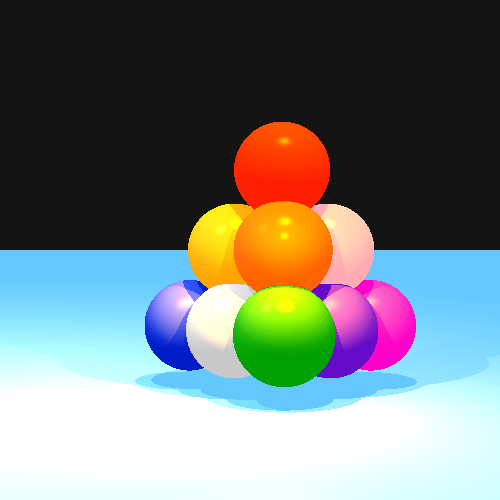
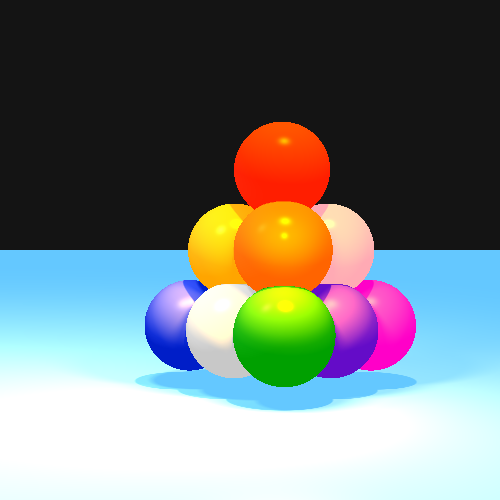
///

diff --git a/src/geometries/Squared3D.java b/src/geometries/Squared3D.java
@@ -1,0 +1,73 @@
+package geometries;
+
+import primitives.Color;
+
+import java.util.List;
+import primitives.*;
+
+public class Squared3D {
+
+    List<Polygon> geometryList;
+
+    /**
+     * Constructs a Squared3D object with the specified parameters.
+     *
+     * @param position The position of the Squared3D.
+     * @param depth    The depth of the Squared3D.
+     * @param width    The width of the Squared3D.
+     * @param height   The height of the Squared3D.
+     * @param color    The color of the Squared3D.
+     */
+    public Squared3D(Point position, int depth, int width, int height, Color color,double kd,double ks,int shines) {
+
+        // Initialize the walls
+
+        // Front wall
+        Polygon front = (Polygon) new Polygon(position,
+                new Point(position.getXyz().getD1() + width, position.getXyz().getD2(), position.getXyz().getD3()),
+                new Point(position.getXyz().getD1() + width, position.getXyz().getD1(), position.getXyz().getD3()+ height),
+                new Point(position.getXyz().getD1(), position.getXyz().getD1(), position.getXyz().getD3() + height))
+                .setEmission(color).setMaterial(new Material().setKd(kd).setKs(ks).setShininess(shines));
+
+        // Back wall
+        Polygon back = (Polygon) new Polygon(new Point(position.getXyz().getD1(), position.getXyz().getD1() + depth, position.getXyz().getD3()),
+                new Point(position.getXyz().getD1() + width, position.getXyz().getD1() + depth, position.getXyz().getD3()),
+                new Point(position.getXyz().getD1() + width, position.getXyz().getD2() + depth, position.getXyz().getD3() + height),
+                new Point(position.getXyz().getD1(), position.getXyz().getD2() + depth, position.getXyz().getD3() + height))
+                .setEmission(color).setMaterial(new Material().setKd(kd).setKs(ks).setShininess(shines));
+
+        // Left wall
+        Polygon left = (Polygon) new Polygon(position,
+                new Point(position.getXyz().getD1(), position.getXyz().getD2(), position.getXyz().getD3() + height),
+                new Point(position.getXyz().getD1(), position.getXyz().getD2() + depth, position.getXyz().getD3() + height),
+                new Point(position.getXyz().getD1(), position.getXyz().getD2() + depth, position.getXyz().getD3()))
+                .setEmission(color).setMaterial(new Material().setKd(kd).setKs(ks).setShininess(shines));
+
+        // Right wall
+        Polygon right = (Polygon) new Polygon(new Point(position.getXyz().getD1() + width, position.getXyz().getD2(), position.getXyz().getD3()),
+                new Point(position.getXyz().getD1() + width, position.getXyz().getD2(), position.getXyz().getD3() + height),
+                new Point(position.getXyz().getD1() + width, position.getXyz().getD2() + depth, position.getXyz().getD3() + height),
+                new Point(position.getXyz().getD1() + width, position.getXyz().getD2() + depth, position.getXyz().getD3()))
+                .setEmission(color).setMaterial(new Material().setKd(kd).setKs(ks).setShininess(shines));
+
+        // Bottom wall
+        Polygon down = (Polygon) new Polygon(new Point(position.getXyz().getD1(), position.getXyz().getD2(), position.getXyz().getD3()),
+                new Point(position.getXyz().getD1() + width, position.getXyz().getD2(), position.getXyz().getD3()),
+                new Point(position.getXyz().getD1() + width, position.getXyz().getD2() + depth, position.getXyz().getD3()),
+                new Point(position.getXyz().getD1(), position.getXyz().getD2() + depth, position.getXyz().getD3()))
+                .setEmission(color).setMaterial(new Material().setKd(kd).setKs(ks).setShininess(shines));
+
+        // Top wall
+        Polygon up = (Polygon) new Polygon(new Point(position.getXyz().getD1(), position.getXyz().getD2(), position.getXyz().getD3() + height),
+                new Point(position.getXyz().getD1() + width, position.getXyz().getD2(), position.getXyz().getD3() + height),
+                new Point(position.getXyz().getD1() + width, position.getXyz().getD2() + depth, position.getXyz().getD3() + height),
+                new Point(position.getXyz().getD1(), position.getXyz().getD2() + depth, position.getXyz().getD3() + height))
+                .setEmission(color).setMaterial(new Material().setKd(kd).setKs(ks).setShininess(shines));
+
+        geometryList = List.of(front, back, left, right, down, up);
+    }
+
+    public List<Polygon> getGeometryList() {
+        return geometryList;
+    }
+}

diff --git a/src/geometries/Table.java b/src/geometries/Table.java
@@ -1,0 +1,69 @@
+package geometries;
+
+import primitives.Color;
+import primitives.Point;
+
+import java.util.LinkedList;
+import java.util.List;
+
+/**
+ * Represents a table composed of multiple Squared3D objects.
+ */
+public class Table {
+
+    protected LinkedList<Squared3D> squared3DList;
+
+    /**
+     * Constructs a Table object with the specified parameters.
+     *
+     * @param position    The position of the table.
+     * @param depth       The depth of the table.
+     * @param width       The width of the table.
+     * @param height      The height of the table.
+     * @param color       The color of the table.
+     * @param spaceWidth  The space width of the table.
+     * @param spaceDepth  The space depth of the table.
+     */
+    public Table(Point position, int depth, int width, int height, Color color, int spaceWidth, int spaceDepth,double kd,double ks,int shines) {
+        Squared3D s1 = new Squared3D(position, depth, width, height, color,kd,ks ,shines);
+        Squared3D s2 = new Squared3D(new Point(position.getXyz().getD1() + spaceWidth, position.getXyz().getD2(), position.getXyz().getD3()), depth, width, height, color,kd,ks ,shines);
+        Squared3D s3 = new Squared3D(new Point(position.getXyz().getD1(), position.getXyz().getD2() + spaceDepth, position.getXyz().getD3()), depth, width, height, color,kd,ks ,shines);
+        Squared3D s4 = new Squared3D(new Point(position.getXyz().getD1() + spaceWidth, position.getXyz().getD2() + spaceDepth, position.getXyz().getD3()), depth, width, height, color,kd,ks ,shines);
+        Squared3D s5 = new Squared3D(new Point(position.getXyz().getD1(), position.getXyz().getD2(), position.getXyz().getD3() + height), spaceDepth + depth, spaceWidth + width, width, color,kd,ks ,shines);
+        squared3DList = new LinkedList<>();
+        squared3DList.add(s1);
+        squared3DList.add(s2);
+        squared3DList.add(s3);
+        squared3DList.add(s4);
+        squared3DList.add(s5);
+    }
+
+    /**
+     * Returns the list of Squared3D objects that form the table.
+     *
+     * @return The list of Squared3D objects.
+     */
+    public List<Squared3D> getSquared3DList() {
+        return squared3DList;
+    }
+
+    /**
+     * Adds a Squared3D object to the table.
+     *
+     * @param squared3D The Squared3D object to add.
+     */
+    public void addSquared3DList(Squared3D squared3D) {
+        squared3DList.add(squared3D);
+    }
+
+    /**
+     * Returns the list of Squared3D objects that form the table.
+     *
+     * @return The list of Squared3D objects.
+     * @deprecated Use {@link #getSquared3DList()} instead.
+     */
+    @Deprecated
+    public LinkedList<Squared3D> getsquared3DList() {
+        return squared3DList;
+    }
+}

diff --git a/unitTests/renderer/Minip1.java b/unitTests/renderer/Minip1.java
@@ -55,11 +55,11 @@ public class Minip1 {
         scene.lights.add(new SpotLight(new Color(400, 240, 0),new Point(100,1000,500),new Vector(-30,-30,0),20).setKl(1E-5).setKq(1.5E-7));
 
         scene.lights.add(
-                new SpotLight(new Color(400, 240, 0),new Point(40,50,200),new Vector(0,-1,0),20)
+                new SpotLight(new Color(400, 240, 0),new Point(40,50,200),new Vector(0,-1,0),40)
                 .setKl(1E-5).setKq(1.5E-7));
 
         scene.lights.add(
-                new SpotLight(new Color(200, 200, 200),new Point(-150,200,200),new Vector(-40,-40,-20),13)
+                new SpotLight(new Color(200, 200, 200),new Point(-150,200,200),new Vector(-40,-40,-20),30)
                         .setKl(1E-5).setKq(1.5E-7));
 
         // Updated Camera setup
@@ -68,6 +68,9 @@ public class Minip1 {
                 .setDirection(new Vector(0, 1, 0).normalize(), new Vector(0, 0, -1))  // Pointing towards the scene with correct up vector
                 .setVpDistance(300)  // Adjusted to capture a larger view
                 .setVpSize(200, 200);  // Increased size for a broader view
+
+
+        scene.setSoftShadow(true);
 
         ImageWriter imagewriter=new ImageWriter("Spheres4",500,500);
         camera.setImageWriter(imagewriter)
